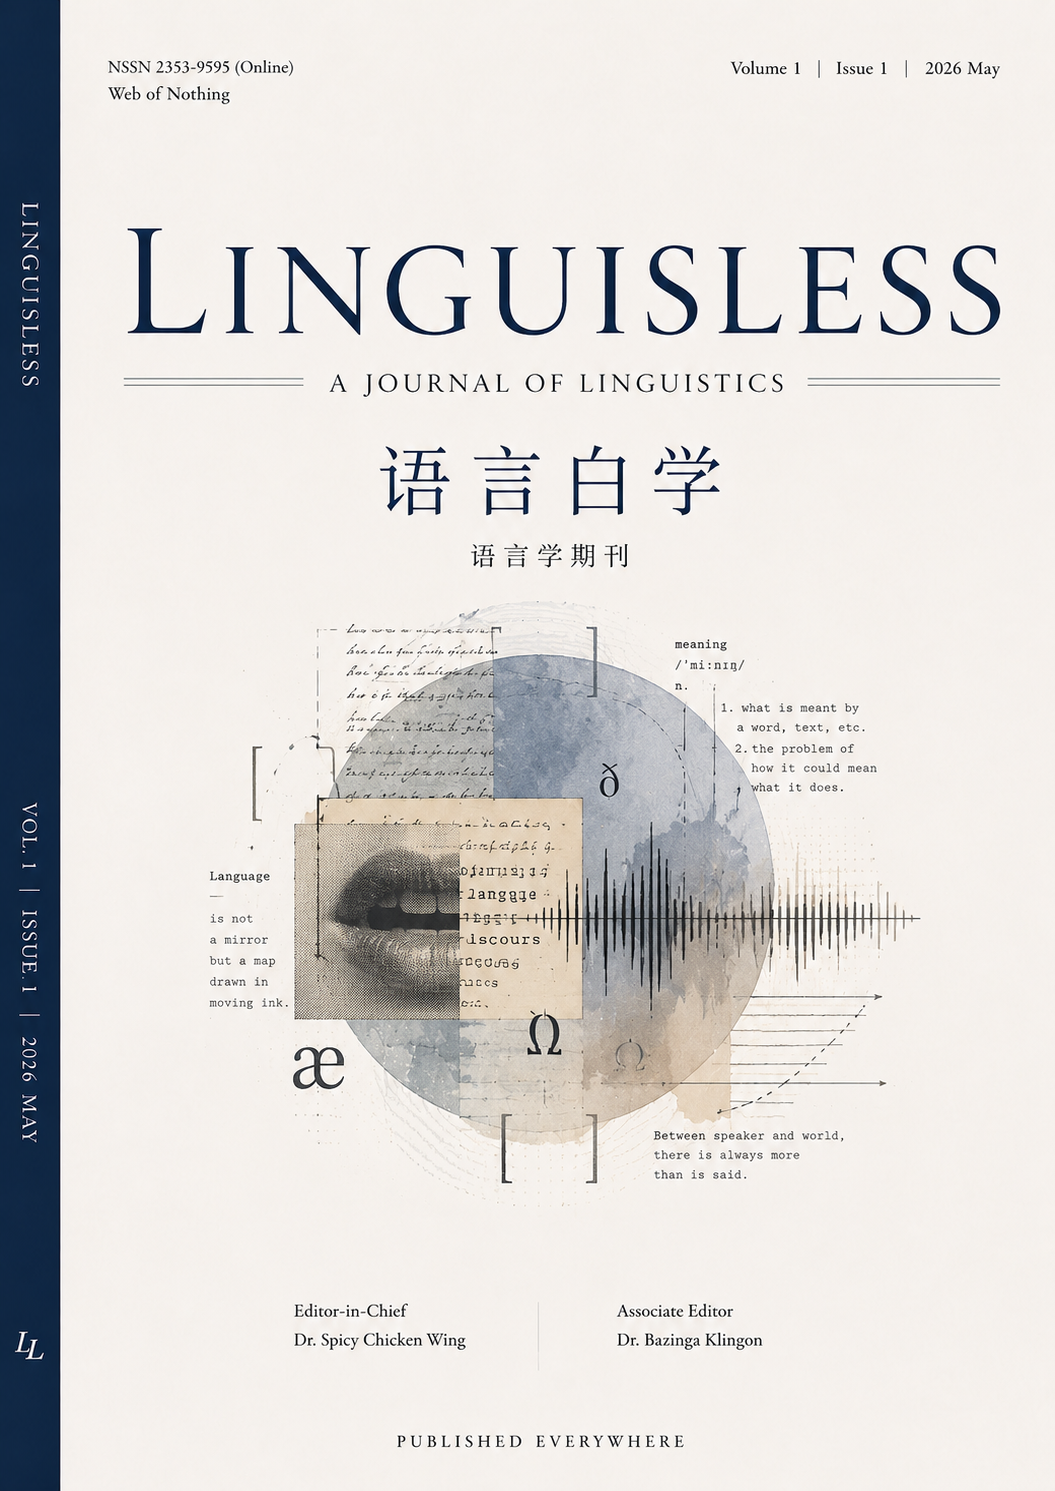
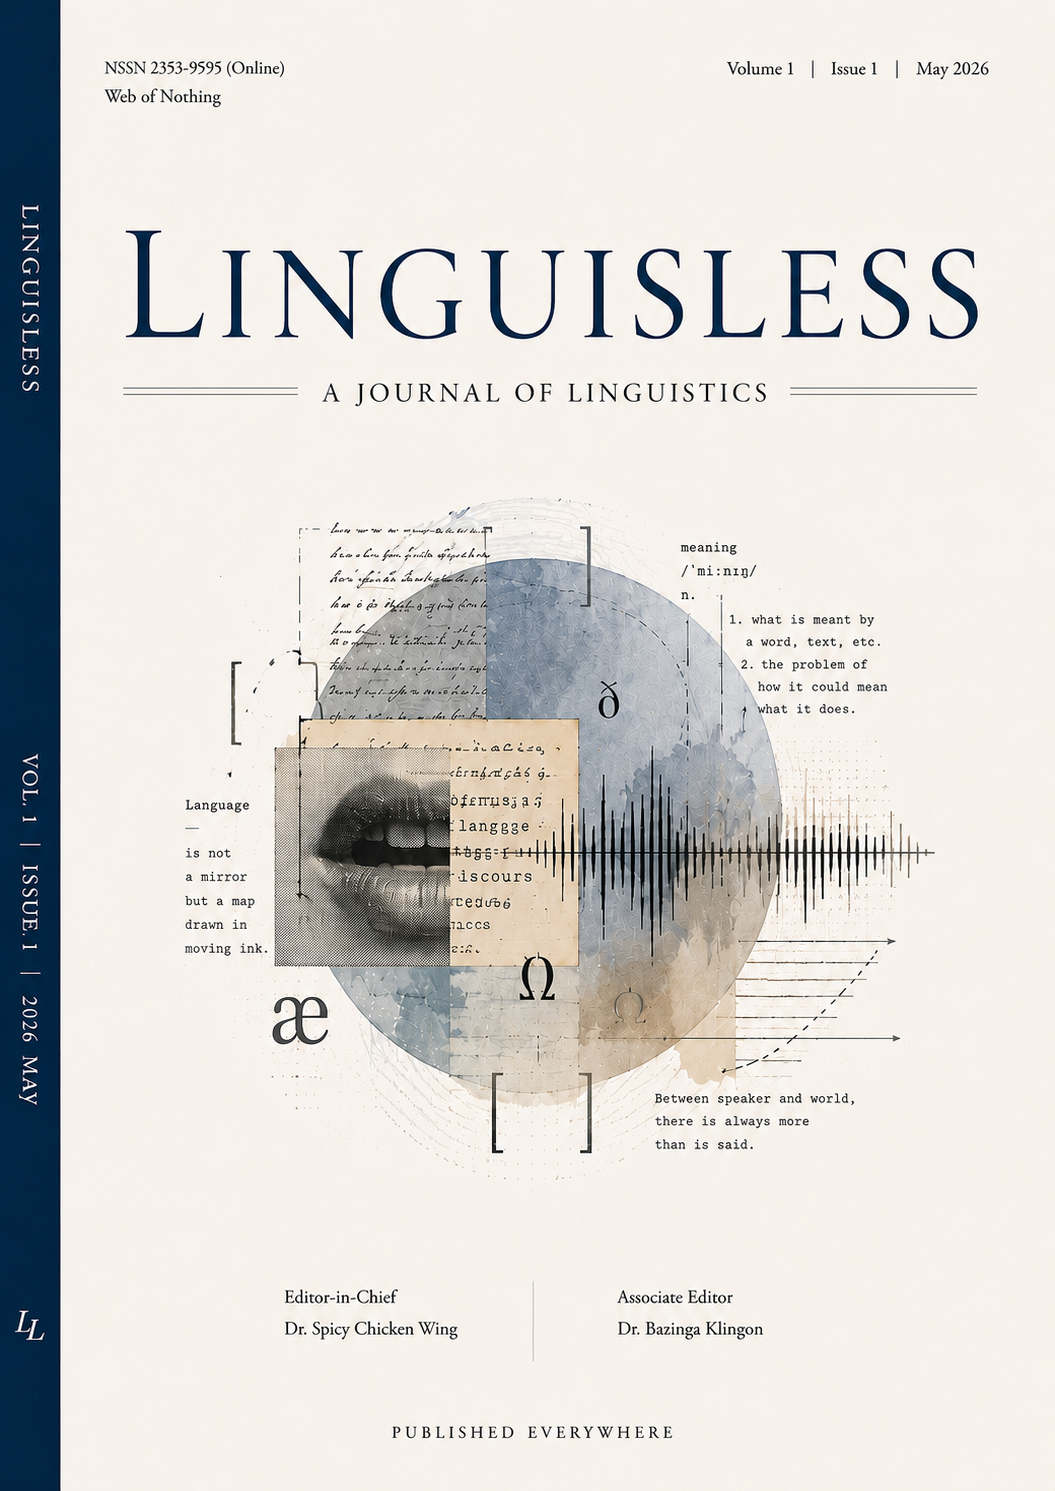
Update cover image and remove Chinese copy

diff --git a/src/lib/articles.ts b/src/lib/articles.ts
@@ -37,7 +37,6 @@ export interface Issue {
 
 export const journalInfo = {
   name: "Linguisless",
-  chineseName: "语言白学",
   fullName: "Linguisless: A Journal of Linguistics",
   subtitle: "A Journal of Linguistics",
   issn: "2353-9595",
@@ -48,7 +47,7 @@ export const journalInfo = {
   impactFactor: "0.000",
   tagline: "Published Everywhere. Peer-reviewed-ish.",
   description:
-    "Linguisless (aka 语言白学) is dedicated to all unserious research concerning language. We maintain the aesthetic standards of a top-tier journal while proudly rejecting their methodological ones.",
+    "Linguisless is dedicated to all unserious research concerning language. We maintain the aesthetic standards of a top-tier journal while proudly rejecting their methodological ones.",
   submitEmail: "linguisless@gmail.com",
   editorialEmail: "linguisless@gmail.com",
 };

diff --git a/src/app/about/page.tsx b/src/app/about/page.tsx
@@ -9,7 +9,7 @@ export default function AboutPage() {
   return (
     <div className="mx-auto max-w-3xl px-4 py-12">
       <h1 className="font-serif text-3xl font-bold text-journal-navy">About {journalInfo.name}</h1>
-      <p className="mt-1 font-serif text-lg text-journal-muted">{journalInfo.chineseName}</p>
+      <p className="mt-1 font-serif text-lg text-journal-muted">{journalInfo.subtitle}</p>
 
       <div className="mt-8 space-y-6 font-sans text-base leading-relaxed text-journal-ink">
         <p>{journalInfo.description}</p>

diff --git a/src/components/Footer.tsx b/src/components/Footer.tsx
@@ -8,7 +8,7 @@ export default function Footer() {
         <div className="grid gap-8 md:grid-cols-3">
           <div>
             <h3 className="font-serif text-lg font-bold">Linguisless</h3>
-            <p className="mt-1 font-serif text-sm text-journal-cream/60">{journalInfo.chineseName}</p>
+            <p className="mt-1 font-serif text-sm text-journal-cream/60">{journalInfo.subtitle}</p>
             <p className="mt-2 font-sans text-sm text-journal-cream/70">{journalInfo.tagline}</p>
           </div>
           <div>

diff --git a/src/components/Header.tsx b/src/components/Header.tsx
@@ -23,9 +23,6 @@ export default function Header() {
             <p className="mt-2 font-sans text-xs uppercase tracking-[0.25em] text-journal-muted">
               {journalInfo.subtitle}
             </p>
-            <p className="mt-1 font-serif text-sm text-journal-muted">
-              {journalInfo.chineseName} · 语言学期刊
-            </p>
           </Link>
         </div>
         <nav className="mt-6 flex flex-wrap items-center justify-center gap-1 border-t border-journal-parchment pt-4">

diff --git a/README.md b/README.md
@@ -1,6 +1,6 @@
 # Linguisless
 
-**Linguisless / 语言白学** — A satirical academic linguistics journal.
+**Linguisless** — A satirical academic linguistics journal.
 
 ## Status
 
@@ -48,6 +48,12 @@ npx vercel --prod
 
 - **Web of Nothing:** https://webofnothing.org/journal/Linguisless.html
 - **Email:** linguisless@gmail.com
+
+## Forum (Supabase)
+
+Forum posts are stored in **Supabase** when configured. Without Supabase, the forum falls back to local file storage (not persistent on Vercel).
+
+See **[supabase/SETUP.md](supabase/SETUP.md)** for step-by-step setup.
 
 ## Add Articles
 
